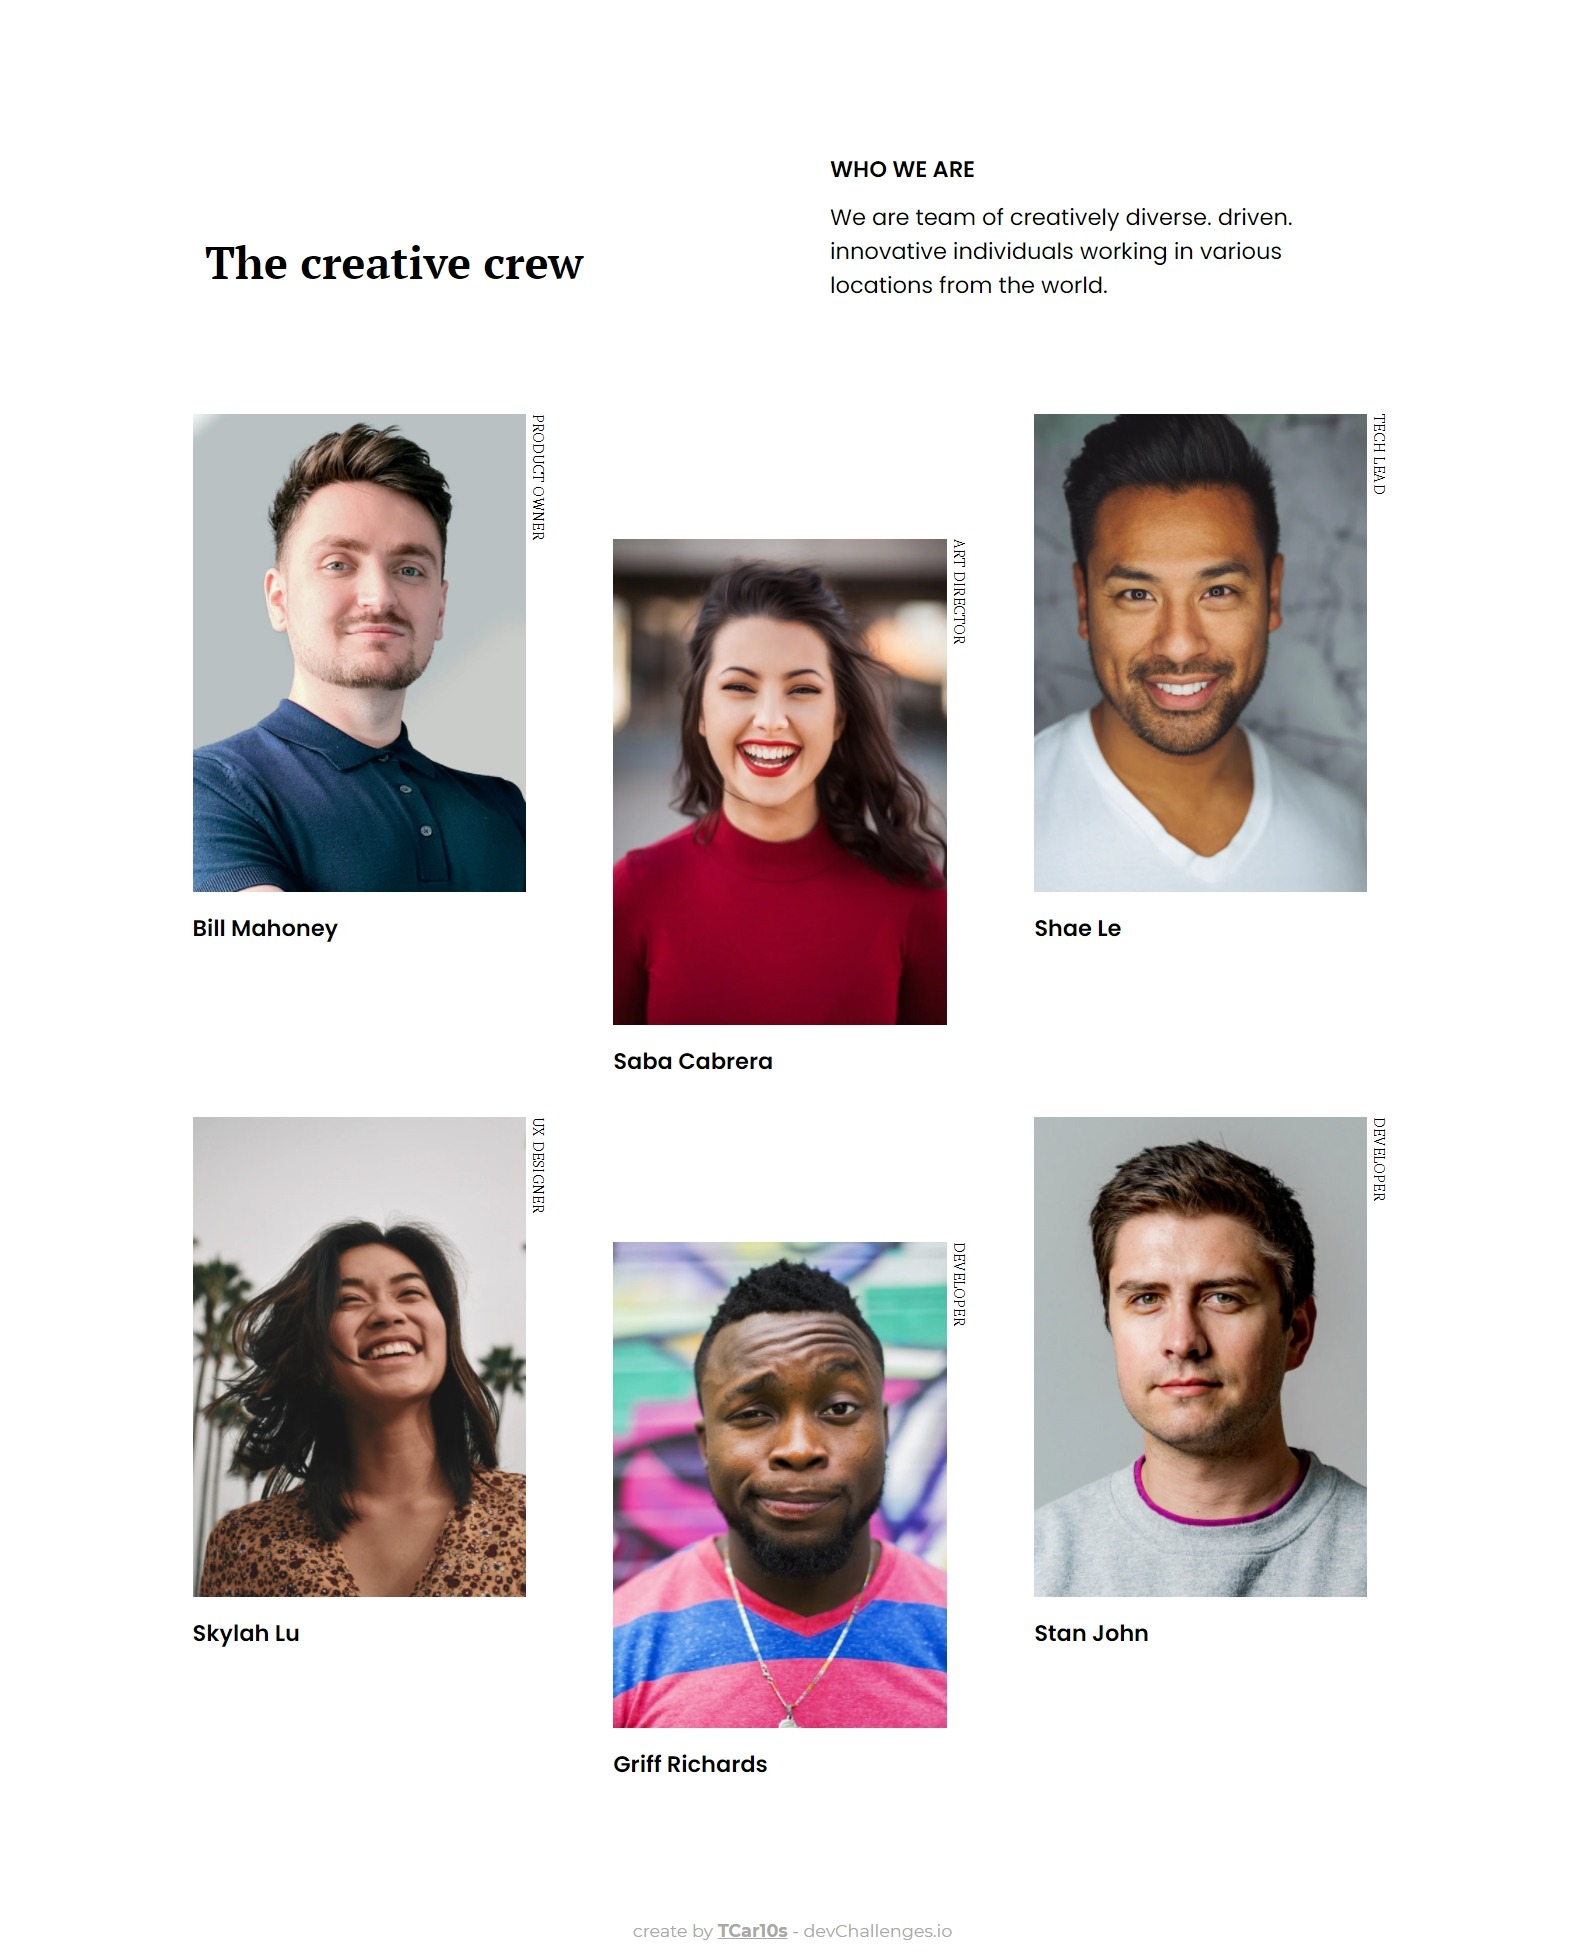
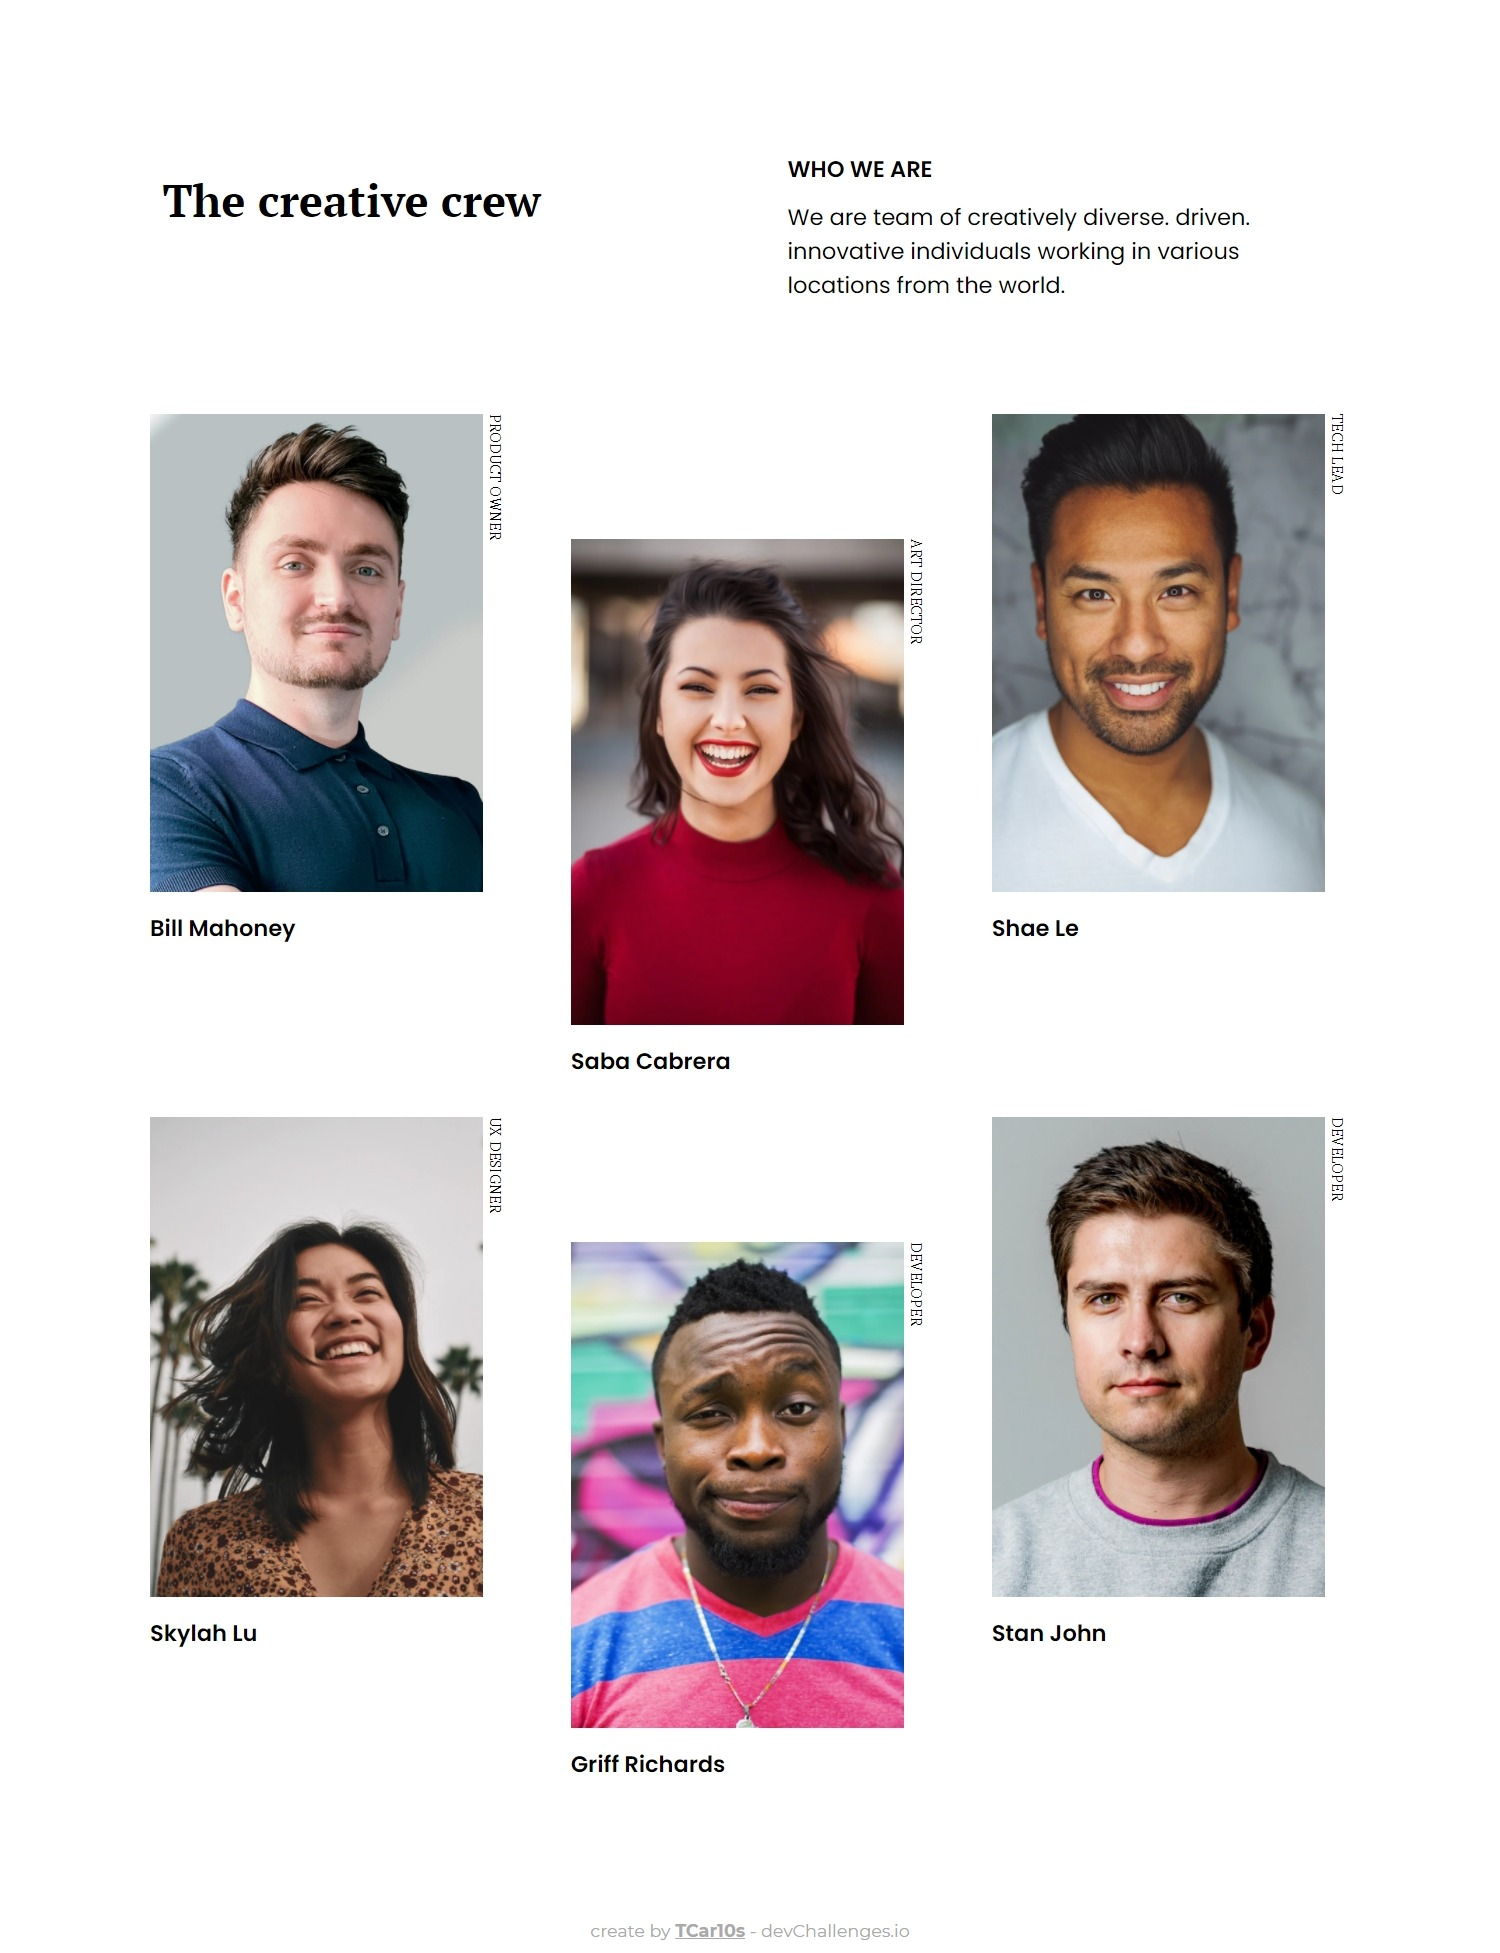
Cambio de imagen y ajuste de h1.

diff --git a/styles.css b/styles.css
@@ -97,6 +97,9 @@ a {
 }
 
 @media (min-width: 768px) {
+  h1 {
+    margin-top: 0;
+  }
   h3 {
     font-size: 1.8rem;
     line-height: 5rem;
